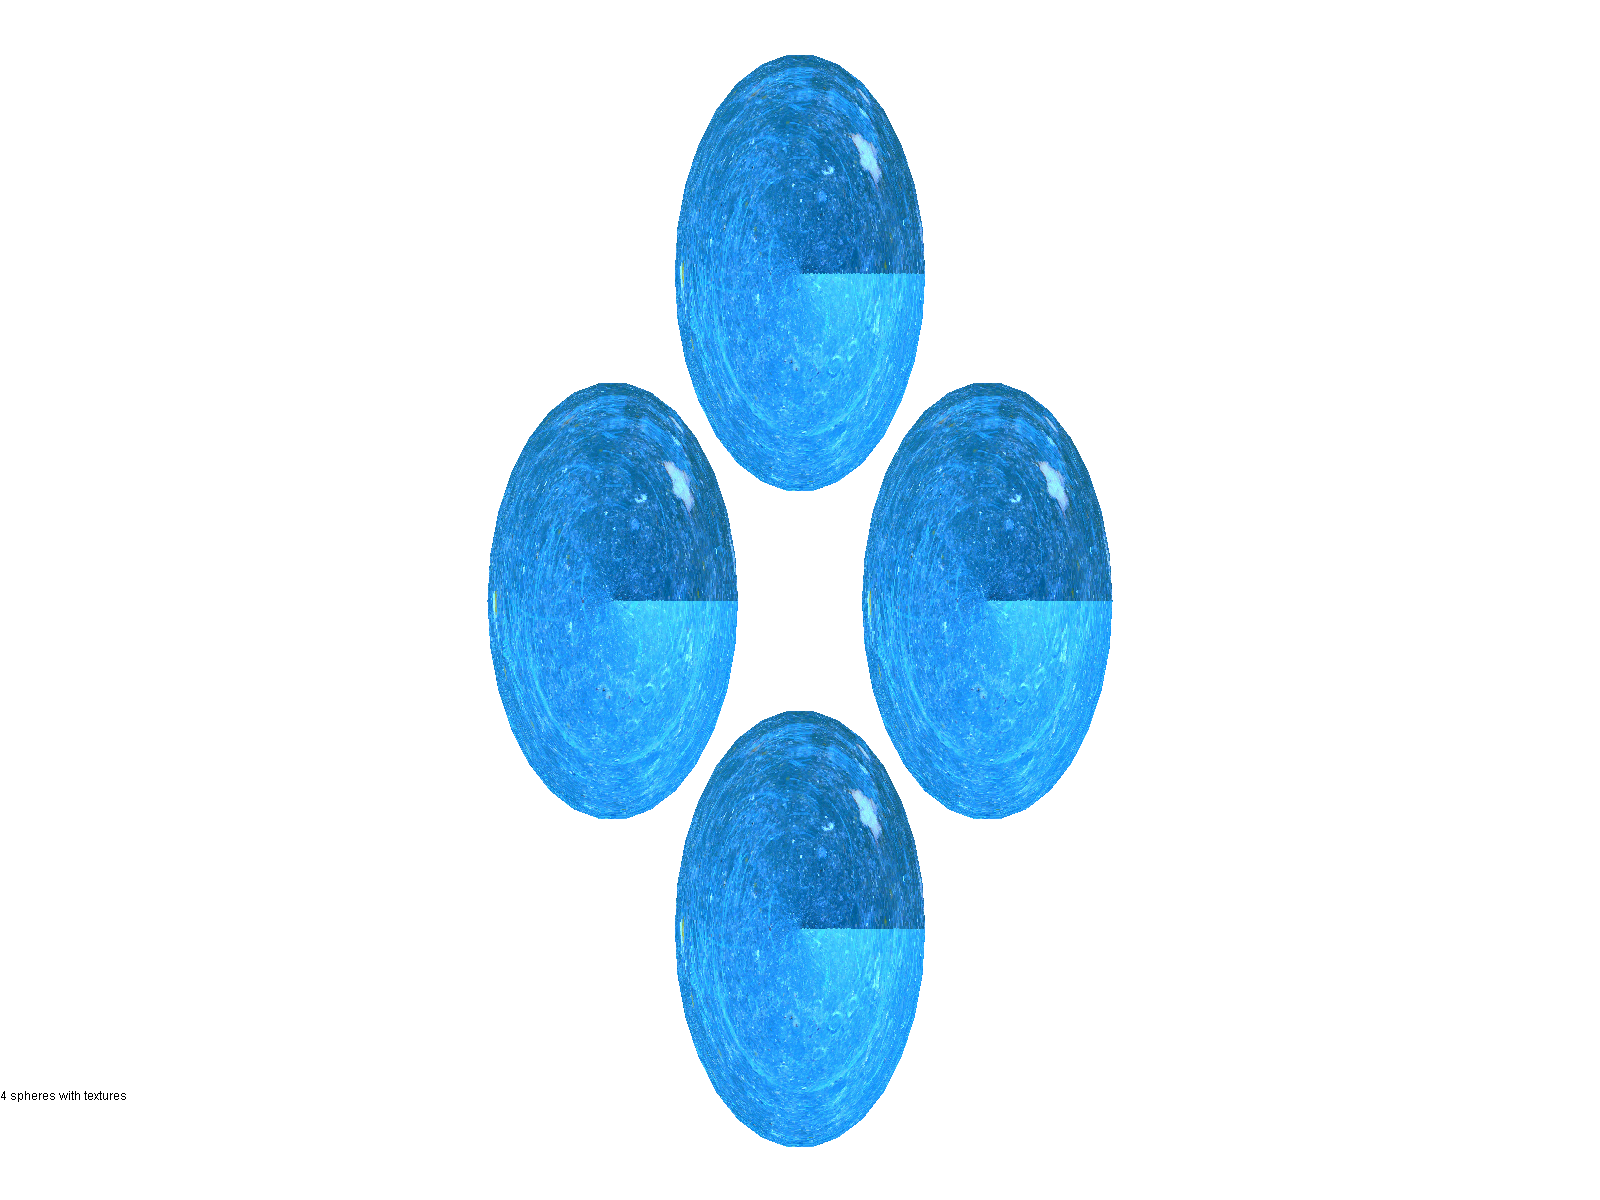
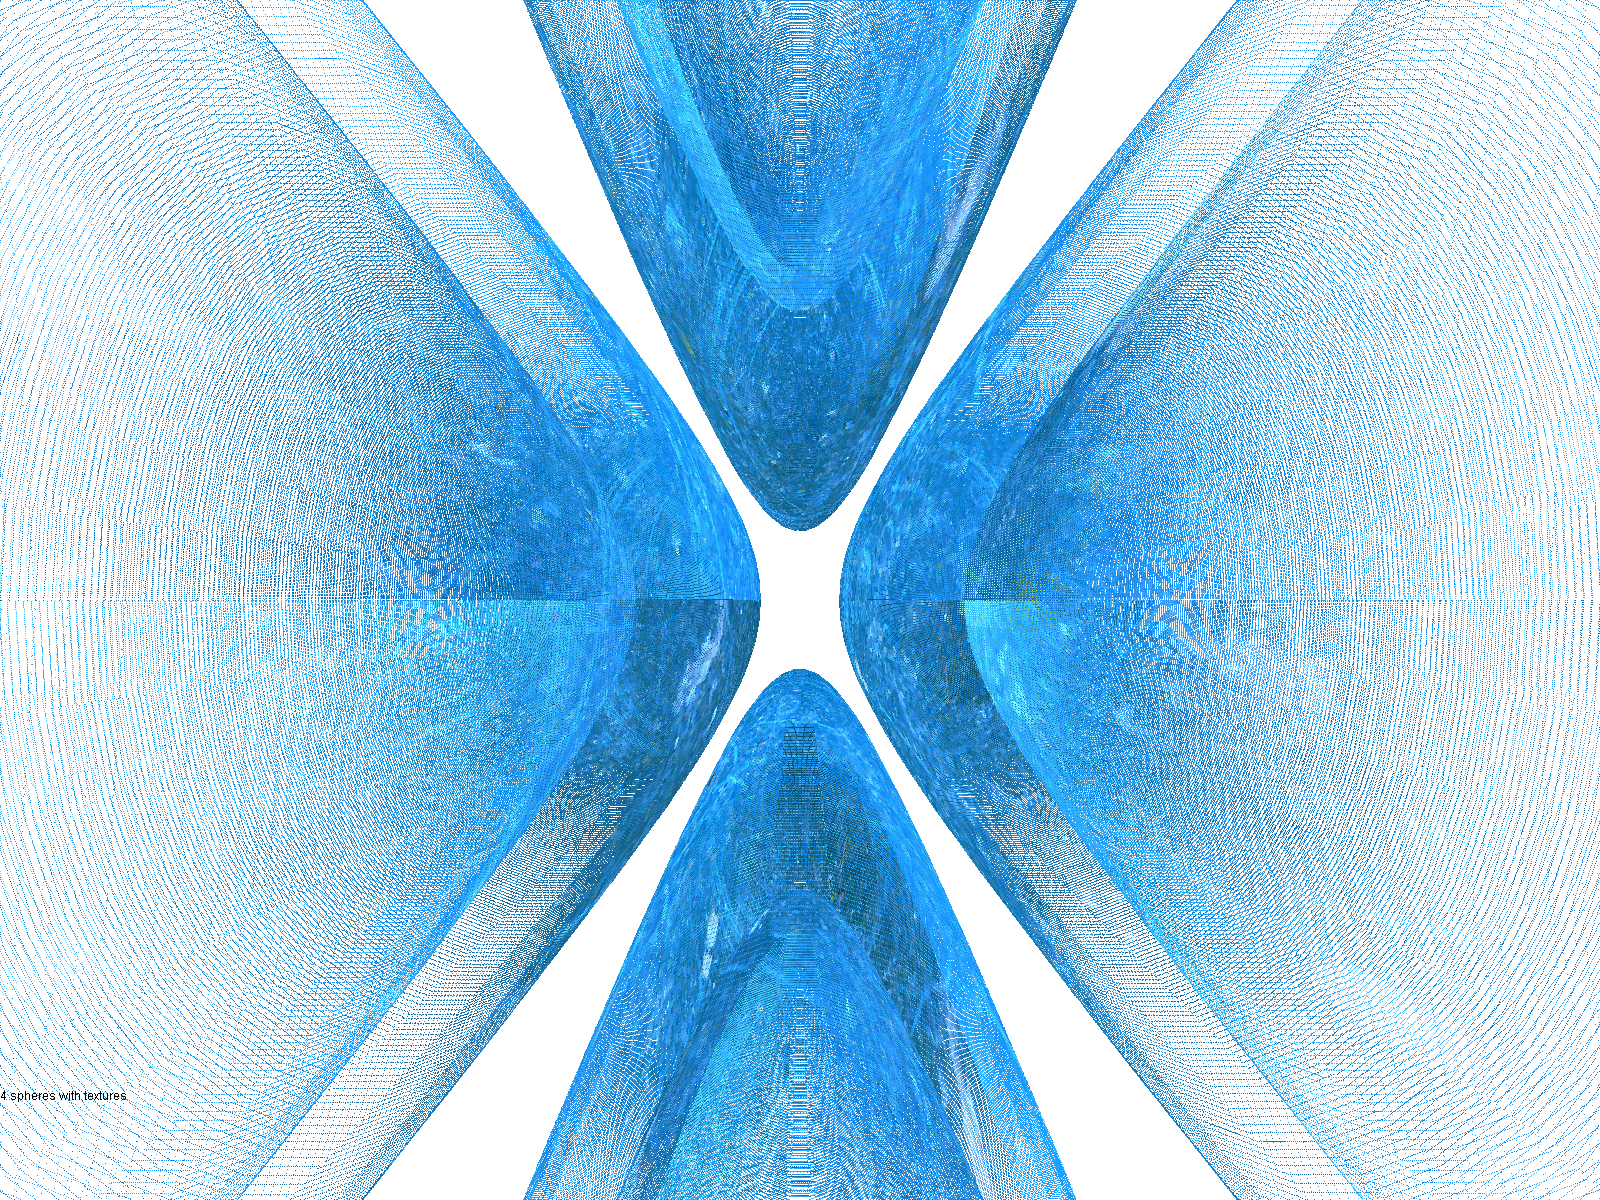
unload colt library

diff --git a/src/be/ibiiztera/md/pmatrix/pushmatrix/Camera.java b/src/be/ibiiztera/md/pmatrix/pushmatrix/Camera.java
@@ -4,11 +4,6 @@
  */
 package be.ibiiztera.md.pmatrix.pushmatrix;
 
-import cern.colt.matrix.DoubleMatrix1D;
-import cern.colt.matrix.DoubleMatrix2D;
-import cern.colt.matrix.impl.DenseDoubleMatrix1D;
-import cern.colt.matrix.impl.DenseDoubleMatrix2D;
-import cern.colt.matrix.linalg.Algebra;
 
 /**
  *
@@ -19,7 +14,7 @@ public class Camera implements Representable
     private Point3D camera;
     private Point3D lookat;
     private Point3D planproj;
-    private DoubleMatrix2D matrice;
+    private Matrix33 matrice;
 
     public Camera(Point3D camera, Point3D lookat, Point3D planproj) {
         this.camera = camera;
@@ -33,21 +28,18 @@ public class Camera implements Representable
     }
     public void calculerMatrice()
     {
-        DoubleMatrix2D m = new DenseDoubleMatrix2D(3,3);
+        Matrix33 m = new Matrix33();
         for(int j=0; j<3; j++)
-        m.set(j, 2, lookat.moins(camera).norme1().get(j));
+            m.set(j, 2, lookat.moins(camera).norme1().get(j));
         for(int j=0; j<3; j++)
-        m.set(j, 0, lookat.moins(camera).norme1().prodVect(Point3D.Y).get(j));
+            m.set(j, 0, lookat.moins(camera).norme1().prodVect(Point3D.Y).get(j));
         for(int j=0; j<3; j++)
-        m.set(j, 1, lookat.moins(camera).norme1().prodVect(lookat.moins(camera).norme1().prodVect(Point3D.Y)).norme1().get(j));
+            m.set(j, 1, lookat.moins(camera).norme1().prodVect(lookat.moins(camera).norme1().prodVect(Point3D.Y)).norme1().get(j));
         this.matrice = m;
     }
     public Point3D calculerPointDansRepere(Point3D p)
     {
-        DoubleMatrix1D p2 = new DenseDoubleMatrix1D(p.moins(camera).getDoubleArray());
-        DoubleMatrix1D r2 = new Algebra().mult(matrice, p2);
-        Point3D ret = new Point3D(r2.get(0),r2.get(1),r2.get(2));
-        return ret;
+        return matrice.mult(p.moins(camera));
     }
     
     @Override

diff --git a/src/be/ibiiztera/md/pmatrix/pushmatrix/scripts/InterpreteModdificateur.java b/src/be/ibiiztera/md/pmatrix/pushmatrix/scripts/InterpreteModdificateur.java
@@ -20,7 +20,6 @@
 package be.ibiiztera.md.pmatrix.pushmatrix.scripts;
 
 import be.ibiiztera.md.pmatrix.pushmatrix.*;
-import cern.colt.matrix.impl.DenseDoubleMatrix2D;
 import java.util.ArrayList;
 
 /**
@@ -120,24 +119,7 @@ public class InterpreteModdificateur implements Interprete {
                     pos = pp.getPosition();
                 }
 
-                mr.matrice(new DenseDoubleMatrix2D(
-                        new double [] []
-                        {
-                        {
-                                vAxe[0].get(0),
-                                vAxe[0].get(1),
-                                vAxe[0].get(2),
-                        },{
-                                vAxe[1].get(0),
-                                vAxe[1].get(1),
-                                vAxe[1].get(2),
-                        },{
-                                vAxe[2].get(0),
-                                vAxe[2].get(1),
-                                vAxe[2].get(2)
-                        }
-                        }
-                                ));
+                mr.matrice(new Matrix33(vAxe));
 
                 InterpretePoint3D pp = new InterpretePoint3D();
                 mr.centre((Point3D)pp.interprete(text, pos));

diff --git a/src/be/ibiiztera/md/pmatrix/pushmatrix/newobjets/BaseObjet.java b/src/be/ibiiztera/md/pmatrix/pushmatrix/newobjets/BaseObjet.java
@@ -4,7 +4,7 @@
  */
 package be.ibiiztera.md.pmatrix.pushmatrix.newobjets;
 
-import cern.colt.matrix.impl.DenseDoubleMatrix2D;
+import be.ibiiztera.md.pmatrix.pushmatrix.Matrix33;
 import be.ibiiztera.md.pmatrix.pushmatrix.Point3D;
 import java.util.HashMap;
 
@@ -41,7 +41,7 @@ public interface BaseObjet {
      * @param matriceRotation matrice de rotation
      * @return objet
      */
-    public BaseObjet orienter(DenseDoubleMatrix2D matriceRotation);
+    public BaseObjet orienter(Matrix33 matriceRotation);
     
     public TColor texture();
     

diff --git a/src/be/ibiiztera/md/pmatrix/pushmatrix/MODRotation.java b/src/be/ibiiztera/md/pmatrix/pushmatrix/MODRotation.java
@@ -19,13 +19,12 @@
 */
 package be.ibiiztera.md.pmatrix.pushmatrix;
 
-import cern.colt.matrix.impl.DenseDoubleMatrix2D;
 
 	public class MODRotation
 	{
-		private DenseDoubleMatrix2D matrix;
+		private Matrix33 matrix;
 		private Point3D centre;
-		public void matrice(DenseDoubleMatrix2D m)
+		public void matrice(Matrix33 m)
 		{
 			this.matrix = m;
 		}
@@ -33,7 +32,7 @@ import cern.colt.matrix.impl.DenseDoubleMatrix2D;
 		{
 			this.centre = p;
 		}
-		public DenseDoubleMatrix2D matrice()
+		public Matrix33 matrice()
 		{
 			return matrix;
 		}
